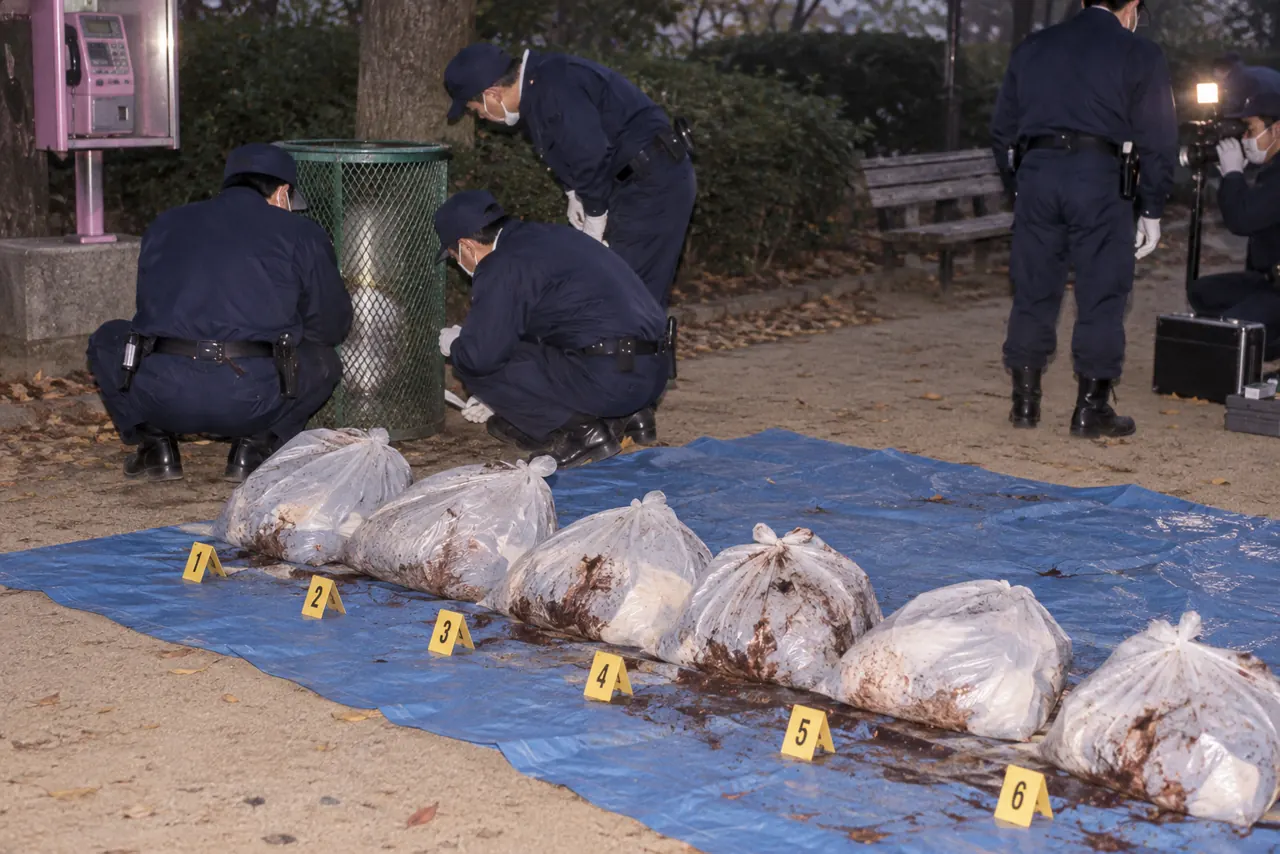
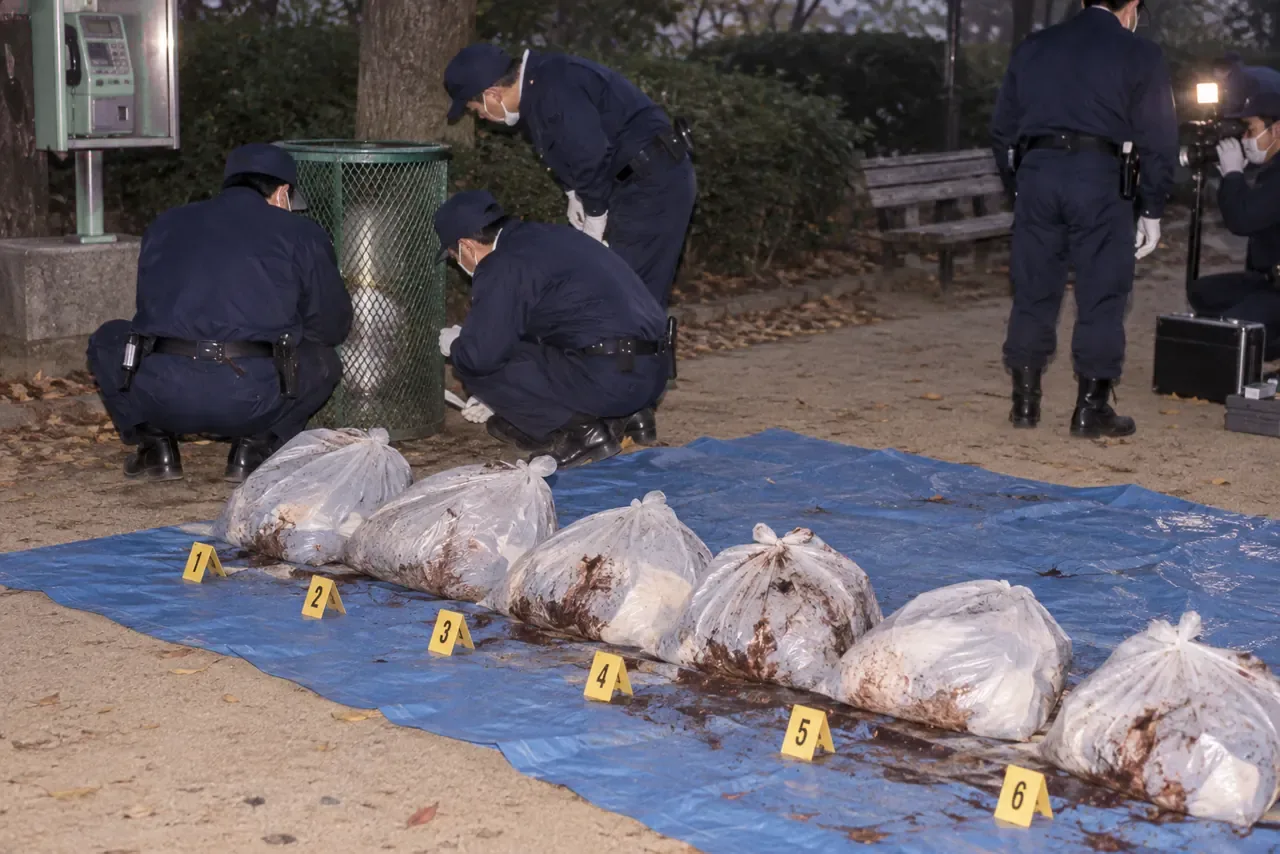
Three more photos that contradicted their records: - CASE 07: the streetlamp by the riverside shop is no longer lit; the records say the road has no streetlights and drivers see only headlights. - CASE 12: the payphone at the park dump site is green instead of pink, so it isn't confused with the pin

Changed region(s): [[0.0, 0.0, 0.125, 0.1827], [0.0625, 0.2436, 0.0938, 0.3044]]

diff --git a/i18n/ru/c12.js b/i18n/ru/c12.js
@@ -290,8 +290,8 @@ MG.I18N.put("ru", "c12", {
 "1yfhigs38mb": "06:02 уборщик районного [[парка Касивадай|k_park]] [[Такано Киёси|k_takano]] (64) обнаружил в урне № 1 у [[восточных ворот|k_eastgate]] [[полупрозрачный пакет|k_bags]] с чем-то похожим на человеческую руку; в 06:15 сообщил по телефону из конторы парка. 06:24 прибыл сотрудник полицейского поста, вход в парк перекрыт.",
 "393p2xbknp": "Показания обнаружившего, Такано (кратко): «Хотел опорожнить урну, поднял пакет — а он какой-то тяжёлый и холодный. Плёнка натянулась, и проступили суставы пальцев. Сперва подумал, кто-то резиновую перчатку выкинул». — По его словам, пока звонил из конторы парка, дважды уронил трубку.",
 "2gexjltksve": "Показания обнаружившего, Такано (кратко): «Хотел опорожнить урну, поднял пакет — а он какой-то тяжёлый и холодный. Только поднял — то, что внутри, грузно перевалилось на один бок, а вода на дне плеснула. Плёнка натянулась, и проступили суставы пальцев. Белые, сморщенные, будто размокли в воде. Сперва подумал, кто-то резиновую перчатку выкинул. Только как ногти увидел — понял». — По его словам, пока звонил из конторы парка, дважды уронил трубку. Когда в 06:24 прибыл сотрудник поста, в стоке перед конторой была рвота, а обнаруживший всё тёр руку в перчатке о брюки.",
-"1ocfj0uh1g5": "Около 07:00, у урны № 1 у восточных ворот. Эксперты вынимали пакеты по одному и раскладывали на брезенте.",
-"ffyydkjqgl": "Около 07:00, у урны № 1 у восточных ворот. Эксперты вынимали пакеты по одному и раскладывали на брезенте. На некоторых снаружи расплылись бурые пятна засохшей крови размером с ладонь, а сквозь плёнку просвечивает придавленная белёсая плоть. На брезенте тут и там остались бурые мазки с наружной стороны пакетов.",
+"llkma2n0uw": "Около 07:00, у урны № 1 у восточных ворот. Эксперты по очереди вынимают пакеты из урн № 1, 2 и 3 и раскладывают на брезенте.",
+"1s9110iwyda": "Около 07:00, у урны № 1 у восточных ворот. Эксперты по очереди вынимают пакеты из урн № 1, 2 и 3 и раскладывают на брезенте. На некоторых снаружи расплылись бурые пятна засохшей крови размером с ладонь, а сквозь плёнку просвечивает придавленная белёсая плоть. На брезенте тут и там остались бурые мазки с наружной стороны пакетов.",
 "t3hb1dkp5t": "№ 1, 2, 3",
 "20fna505l6a": "У восточных ворот, внутри",
 "nlv6oazvwq": "Пакетов: 8",

diff --git a/cases/c12-tokyo-1994.js b/cases/c12-tokyo-1994.js
@@ -286,7 +286,7 @@
         { stamp: '部外秘' },
         '06:02 구립 [[가시와다이 공원]] 청소 작업원 [[다카노 기요시]](64)가 [[동문]] 쪽 1번 쓰레기통에서 사람의 손으로 보이는 것이 든 [[반투명 봉투]]를 발견, 06:15 공원 관리 사무소 전화로 신고. 06:24 파출소원 도착, 공원 출입 통제.',
         { note: '발견자 다카노 진술 (요지): "통을 비우려고 봉투를 드는데 이상하게 무겁고 차가웠다. 비닐이 늘어나면서 손가락 마디가 비쳤다. 처음엔 누가 버린 고무장갑인 줄 알았다." — 관리 사무소 전화로 신고하는 동안 수화기를 두 번 떨어뜨렸다고 함.', gore: '발견자 다카노 진술 (요지): "통을 비우려고 봉투를 드는데 이상하게 무겁고 차가웠다. 들어 올리자 속에 든 것이 묵직하게 한쪽으로 기울고 바닥에 고인 물이 출렁했다. 비닐이 늘어나면서 손가락 마디가 비쳤다. 물에 불은 듯 허옇고 쭈글쭈글했다. 처음엔 누가 버린 고무장갑인 줄 알았다. 손톱이 보이고서야 알았다." — 관리 사무소 전화로 신고하는 동안 수화기를 두 번 떨어뜨렸다고 함. 06:24 파출소원 도착 때 사무소 앞 배수구에 토사물이 있었고, 발견자는 장갑 낀 손을 바지에 계속 문지르고 있었음.' },
-        { img: 'scene_bin', cap: '07:00 무렵의 동문 1번 통 둘레. 감식반이 봉투를 하나씩 꺼내 시트 위에 늘어놓았다.', gore: '07:00 무렵의 동문 1번 통 둘레. 감식반이 봉투를 하나씩 꺼내 시트 위에 늘어놓았다. 몇 장은 겉면에 손바닥만 한 마른 핏자국이 갈색으로 번졌고, 비닐 안쪽으로 허연 살덩이가 짓눌려 비친다. 시트에도 봉투 겉면의 갈색 얼룩이 군데군데 묻어났다.' },
+        { img: 'scene_bin', cap: '07:00 무렵의 동문 1번 통 둘레. 감식반이 1·2·3번 통의 봉투를 차례로 꺼내 시트 위에 늘어놓는 중이다.', gore: '07:00 무렵의 동문 1번 통 둘레. 감식반이 1·2·3번 통의 봉투를 차례로 꺼내 시트 위에 늘어놓는 중이다. 몇 장은 겉면에 손바닥만 한 마른 핏자국이 갈색으로 번졌고, 비닐 안쪽으로 허연 살덩이가 짓눌려 비친다. 시트에도 봉투 겉면의 갈색 얼룩이 군데군데 묻어났다.' },
         { rows: [['1·2·3번', '동문 안쪽', '봉투 8'], ['4번', '보트 선착장', '9월 말부터 수리로 철거'], ['5·6번', '연못가', '봉투 7'], ['7번', '공중화장실 앞', '화장실 공사로 투입구 봉함'], ['8·9번', '서문 안쪽', '봉투 6']], head: ['통', '위치', '상태'] },
         { p: '봉투는 모두 입구가 묶여 있었고, 겉면 몇 곳에 마른 핏자국이 번져 있었음. 통 바닥에 고인 것은 연갈색 물기뿐, 흘러내린 피는 거의 없음.', gore: '봉투는 모두 입구가 묶여 있었고, 겉면 몇 곳에 마른 핏자국이 번져 있었음. 비닐 안쪽 면에는 붉은 기 도는 물방울이 맺혔고, 토막마다 절단면이 비닐에 짓눌려 희뿌연 근육 단면이 그대로 비침. 통 바닥에 고인 것은 연갈색 물기뿐, 흘러내린 피는 거의 없음. 봉투를 열지 않았는데도 통 둘레에 비릿한 물 냄새가 배어 있음.' },
         '공원 동문 밖은 [[2초메 상점가]], 서문 건너편은 가시와다이역 앞 광장과 [[선라이즈 편의점]]. 밤에도 문을 닫지 않음. 가로등 12기.',

diff --git a/i18n/ja/c12.js b/i18n/ja/c12.js
@@ -290,8 +290,8 @@ MG.I18N.put("ja", "c12", {
 "1yfhigs38mb": "06:02 区立[[柏台公園|k_park]]清掃作業員[[高野清|k_takano]]（64）が、[[東門|k_eastgate]]側の1番ごみ箱で、人の手とみられるものが入った[[半透明の袋|k_bags]]を発見、06:15 公園管理事務所の電話で通報。06:24 交番員到着、公園の立ち入りを規制。",
 "393p2xbknp": "発見者・高野の供述（要旨）：「ごみ箱を空けようと袋を持ち上げたら、妙に重くて冷たかった。ビニールが伸びて、指の関節が透けて見えた。最初は誰かが捨てたゴム手袋かと思った」— 管理事務所の電話で通報する間、受話器を二度落としたという。",
 "2gexjltksve": "発見者・高野の供述（要旨）：「ごみ箱を空けようと袋を持ち上げたら、妙に重くて冷たかった。持ち上げると中のものがずしりと片側に傾いて、底にたまった水がちゃぷんと揺れた。ビニールが伸びて、指の関節が透けて見えた。水でふやけたみたいに白くて、しわしわだった。最初は誰かが捨てたゴム手袋かと思った。爪が見えて、やっと分かった」— 管理事務所の電話で通報する間、受話器を二度落としたという。06:24 交番員到着時、事務所前の排水溝に吐瀉物があり、発見者は手袋をはめた手をズボンにこすりつけ続けていた。",
-"1ocfj0uh1g5": "07:00ごろの東門1番ごみ箱の周り。鑑識班が袋を一つずつ取り出し、シートの上に並べた。",
-"ffyydkjqgl": "07:00ごろの東門1番ごみ箱の周り。鑑識班が袋を一つずつ取り出し、シートの上に並べた。何枚かは表面に手のひら大の乾いた血痕が茶色くにじみ、ビニールの内側に白っぽい肉の塊が押しつぶされて透けている。シートにも、袋の表面の茶色い染みがところどころ付いた。",
+"llkma2n0uw": "07:00ごろの東門1番ごみ箱の周り。鑑識班が1・2・3番ごみ箱の袋を順に取り出し、シートの上に並べているところ。",
+"1s9110iwyda": "07:00ごろの東門1番ごみ箱の周り。鑑識班が1・2・3番ごみ箱の袋を順に取り出し、シートの上に並べているところ。何枚かは表面に手のひら大の乾いた血痕が茶色くにじみ、ビニールの内側に白っぽい肉の塊が押しつぶされて透けている。シートにも、袋の表面の茶色い染みがところどころ付いた。",
 "t3hb1dkp5t": "1・2・3番",
 "20fna505l6a": "東門の内側",
 "nlv6oazvwq": "袋8",

diff --git a/i18n/de/c12.js b/i18n/de/c12.js
@@ -290,8 +290,8 @@ MG.I18N.put("de", "c12", {
 "1yfhigs38mb": "06:02 Parkreiniger [[Takano Kiyoshi|k_takano]] (64) des bezirkseigenen [[Kashiwadai-Parks|k_park]] findet in Abfallkorb 1 am [[Osttor|k_eastgate]] einen [[halbtransparenten Müllbeutel|k_bags]] mit etwas, das wie eine menschliche Hand aussieht; 06:15 Meldung über das Telefon der Parkverwaltung. 06:24 Beamter der Polizeibox vor Ort, Park abgesperrt.",
 "393p2xbknp": "Aussage des Finders Takano (Kern): „Ich wollte den Korb leeren und hob den Beutel an, der war merkwürdig schwer und kalt. Die Folie dehnte sich, und Fingerglieder schienen durch. Zuerst dachte ich, jemand hätte Gummihandschuhe weggeworfen.“ — Beim Anruf über das Telefon der Parkverwaltung soll ihm zweimal der Hörer heruntergefallen sein.",
 "2gexjltksve": "Aussage des Finders Takano (Kern): „Ich wollte den Korb leeren und hob den Beutel an, der war merkwürdig schwer und kalt. Als ich ihn hochhob, rutschte der Inhalt schwer zur Seite, und unten schwappte Wasser. Die Folie dehnte sich, und Fingerglieder schienen durch. Weißlich und schrumpelig, wie vom Wasser aufgequollen. Zuerst dachte ich, jemand hätte Gummihandschuhe weggeworfen. Erst als ich die Fingernägel sah, begriff ich es.“ — Beim Anruf über das Telefon der Parkverwaltung soll ihm zweimal der Hörer heruntergefallen sein. Als der Beamte um 06:24 eintraf, lag Erbrochenes im Gully vor dem Büro, und der Finder rieb seine behandschuhten Hände immer wieder an der Hose ab.",
-"1ocfj0uh1g5": "Rund um Korb 1 am Osttor gegen 07:00. Die Spurensicherung nimmt die Beutel einzeln heraus und legt sie auf der Plane aus.",
-"ffyydkjqgl": "Rund um Korb 1 am Osttor gegen 07:00. Die Spurensicherung nimmt die Beutel einzeln heraus und legt sie auf der Plane aus. Auf einigen hat sich außen handtellergroß getrocknetes Blut braun ausgebreitet, durch die Folie schimmert weißliches Fleisch, das dagegen gepresst ist. Auch auf der Plane haben die braunen Flecken der Beutel hier und da abgefärbt.",
+"llkma2n0uw": "Rund um Korb 1 am Osttor gegen 07:00. Die Spurensicherung holt die Beutel aus den Körben 1, 2 und 3 nacheinander heraus und legt sie auf der Plane aus.",
+"1s9110iwyda": "Rund um Korb 1 am Osttor gegen 07:00. Die Spurensicherung holt die Beutel aus den Körben 1, 2 und 3 nacheinander heraus und legt sie auf der Plane aus. Auf einigen hat sich außen handtellergroß getrocknetes Blut braun ausgebreitet, durch die Folie schimmert weißliches Fleisch, das dagegen gepresst ist. Auch auf der Plane haben die braunen Flecken der Beutel hier und da abgefärbt.",
 "t3hb1dkp5t": "Nr. 1·2·3",
 "20fna505l6a": "Innenseite Osttor",
 "nlv6oazvwq": "8 Beutel",

diff --git a/i18n/en/c12.js b/i18n/en/c12.js
@@ -290,8 +290,8 @@ MG.I18N.put("en", "c12", {
 "1yfhigs38mb": "06:02 [[Takano Kiyoshi|k_takano]] (64), park cleaner at the ward-run [[Kashiwadai Park|k_park]], found a [[translucent bag|k_bags]] containing what appeared to be a human hand in trash bin No. 1 by the [[east gate|k_eastgate]]; reported by the park office telephone at 06:15. 06:24 Officer from the local police box arrived; park closed off.",
 "393p2xbknp": "Statement of the discoverer, Takano (summary): “I went to lift the bag to empty the bin, and it was strangely heavy and cold. As the plastic stretched, I could see finger joints through it. At first I thought someone had thrown away a rubber glove.” — Reportedly dropped the receiver twice while reporting it on the park office telephone.",
 "2gexjltksve": "Statement of the discoverer, Takano (summary): “I went to lift the bag to empty the bin, and it was strangely heavy and cold. When I lifted it, what was inside slumped heavily to one side and the water pooled at the bottom sloshed. As the plastic stretched, I could see finger joints through it. White and wrinkled, like they'd been soaking in water. At first I thought someone had thrown away a rubber glove. I only knew when I saw the nails.” — Reportedly dropped the receiver twice while reporting it on the park office telephone. When the officer from the police box arrived at 06:24, there was vomit in the drain outside the office, and the discoverer kept wiping his gloved hands on his pants.",
-"1ocfj0uh1g5": "Around east gate Bin 1 at about 07:00. The forensics team took the bags out one by one and laid them out on a tarp.",
-"ffyydkjqgl": "Around east gate Bin 1 at about 07:00. The forensics team took the bags out one by one and laid them out on a tarp. On several, dried bloodstains the size of a palm have spread brown across the outside, and through the plastic, whitish flesh shows pressed flat. Brown stains from the outsides of the bags have come off on the tarp here and there too.",
+"llkma2n0uw": "Around east gate Bin 1 at about 07:00. The forensics team is taking the bags from Bins 1, 2 and 3 out one at a time and laying them on a tarp.",
+"1s9110iwyda": "Around east gate Bin 1 at about 07:00. The forensics team is taking the bags from Bins 1, 2 and 3 out one at a time and laying them on a tarp. On several, dried bloodstains the size of a palm have spread brown across the outside, and through the plastic, whitish flesh shows pressed flat. Brown stains from the outsides of the bags have come off on the tarp here and there too.",
 "t3hb1dkp5t": "1, 2, 3",
 "20fna505l6a": "Inside the east gate",
 "nlv6oazvwq": "8 bags",

diff --git a/i18n/zh/c12.js b/i18n/zh/c12.js
@@ -290,8 +290,8 @@ MG.I18N.put("zh", "c12", {
 "1yfhigs38mb": "06:02 区立[[柏台公园|k_park]]清扫工[[高野清|k_takano]]（64岁）在[[东门|k_eastgate]]一侧的1号垃圾桶里发现装有疑似人手之物的[[半透明垃圾袋|k_bags]]，06:15用公园管理处的电话报警。06:24派出所警员到场，封锁公园出入口。",
 "393p2xbknp": "发现者高野陈述（要点）：“想清空垃圾桶，拎起袋子，觉得怪沉、怪凉的。塑料膜一撑开，透出了手指的关节。一开始还以为是谁扔的橡胶手套。”——据称在管理处打电话报警时，两次把听筒掉在了地上。",
 "2gexjltksve": "发现者高野陈述（要点）：“想清空垃圾桶，拎起袋子，觉得怪沉、怪凉的。一提起来，里面的东西沉甸甸地往一边歪，底下的积水晃荡了一下。塑料膜一撑开，透出了手指的关节。像被水泡过似的，又白又皱。一开始还以为是谁扔的橡胶手套。看到指甲才明白过来。”——据称在管理处打电话报警时，两次把听筒掉在了地上。06:24派出所警员到场时，管理处门前的排水沟里有呕吐物，发现者一直把戴着手套的手往裤子上蹭。",
-"1ocfj0uh1g5": "07:00前后的东门1号桶周围。鉴识组把袋子一个个取出来，排在塑料布上。",
-"ffyydkjqgl": "07:00前后的东门1号桶周围。鉴识组把袋子一个个取出来，排在塑料布上。有几只袋子表面洇开了巴掌大的干血迹，呈褐色，塑料膜内侧透出被压扁的惨白肉块。塑料布上也处处沾上了袋子表面的褐色污渍。",
+"llkma2n0uw": "07:00前后的东门1号桶周围。鉴识组正把1、2、3号桶里的袋子依次取出来，排在塑料布上。",
+"1s9110iwyda": "07:00前后的东门1号桶周围。鉴识组正把1、2、3号桶里的袋子依次取出来，排在塑料布上。有几只袋子表面洇开了巴掌大的干血迹，呈褐色，塑料膜内侧透出被压扁的惨白肉块。塑料布上也处处沾上了袋子表面的褐色污渍。",
 "t3hb1dkp5t": "1·2·3号",
 "20fna505l6a": "东门内侧",
 "nlv6oazvwq": "袋子8个",

diff --git a/i18n/ru/c05.js b/i18n/ru/c05.js
@@ -242,7 +242,7 @@ MG.I18N.put("ru", "c05", {
 "1ouexmgmome": "«„Курьер“ — к каждому воскресному завтраку», — говорит начальник отдела доставки [[Вернон Осгуд|k_osgood]].",
 "1lqhnxsvlpq": "Засада у маяка ничего не дала — «Песочные часы» не появились",
 "1o13widbgim": "18 августа 1969 г. (пн) · третья полоса",
-"kqdq47f9tv": "Дорога к маяку Грейлок. Утро после засады.",
+"1piz3iq7ehm": "Дорога к маяку Грейлок. Ночь засады.",
 "1ohcxz1e40x": "С ночи 16-го до утра 17-го полиция сидела в засаде у [[маяка Грейлок|k_graylock]], но никого подозрительного не обнаружила. Засаду устроили потому, что у маяка часто останавливаются машины влюблённых пар.",
 "19eftb4prmq": "«За всю ночь проехало всего несколько машин», — сказал представитель полиции.",
 "ckhz6ottbp": "Журнал радиосвязи — 15 декабря, до рассвета",

diff --git a/img/manifest.js b/img/manifest.js
@@ -132,7 +132,7 @@ window.MG.images = {
   "c07/photo_seat": "img/c07/photo_seat.webp?v=7c0efa95",
   "c07/scene_map": "img/c07/scene_map.webp?v=ae8370e9",
   "c07/seokcar": "img/c07/seokcar.webp?v=3946e54c",
-  "c07/shop": "img/c07/shop.webp?v=4a9eb5d0",
+  "c07/shop": "img/c07/shop.webp?v=ce3ae570",
   "c07/songwol_gate": "img/c07/songwol_gate.webp?v=ef7a8716",
   "c07/switchboard": "img/c07/switchboard.webp?v=63a2e311",
   "c07/tv": "img/c07/tv.webp?v=029d4a60",
@@ -234,7 +234,7 @@ window.MG.images = {
   "c12/pinkphone": "img/c12/pinkphone.webp?v=e30555b8",
   "c12/room": "img/c12/room.webp?v=d9c285e8",
   "c12/saw_cast": "img/c12/saw_cast.webp?v=f5e3e103",
-  "c12/scene_bin": "img/c12/scene_bin.webp?v=afd1ae43",
+  "c12/scene_bin": "img/c12/scene_bin.webp?v=deb79958",
   "c12/sento": "img/c12/sento.webp?v=d8d78663",
   "c12/sk_east": "img/c12/sk_east.webp?v=e56bd36c",
   "c12/sk_lum": "img/c12/sk_lum.webp?v=680cc029",

diff --git a/i18n/de/c05.js b/i18n/de/c05.js
@@ -242,7 +242,7 @@ MG.I18N.put("de", "c05", {
 "1ouexmgmome": "Vertriebsleiter [[Vernon Osgood|k_osgood]]: „Auf jeden Frühstückstisch am Sonntag einen Courier.“",
 "1lqhnxsvlpq": "Observation am Leuchtturm ergebnislos — Sanduhr zeigt sich nicht",
 "1o13widbgim": "Montag, 18. August 1969 · Seite 3",
-"kqdq47f9tv": "Die Straße zum Leuchtturm Graylock am Morgen nach der Observation.",
+"1piz3iq7ehm": "Die Straße zum Leuchtturm Graylock in der Nacht der Observation.",
 "1ohcxz1e40x": "Die Polizei hat vom Abend des 16. bis zum Morgen des 17. die Gegend rund um den [[Leuchtturm Graylock|k_graylock]] observiert, aber keine verdächtige Person entdeckt. Anlass war, dass in der Nähe des Leuchtturms häufig Liebespaare mit dem Auto halten.",
 "19eftb4prmq": "Ein Polizeisprecher sagte: „Die ganze Nacht über sind nur wenige Autos vorbeigekommen.“",
 "ckhz6ottbp": "Funkprotokoll — früher Morgen des 15. Dezember",

diff --git a/i18n/ja/c05.js b/i18n/ja/c05.js
@@ -242,7 +242,7 @@ MG.I18N.put("ja", "c05", {
 "1ouexmgmome": "配送部長の[[ヴァーノン・オズグッド|k_osgood]]は「日曜の朝、すべての食卓にクーリエを」と話した。",
 "1lqhnxsvlpq": "灯台の張り込み空振り — 砂時計現れず",
 "1o13widbgim": "1969年8月18日（月） · 3面",
-"kqdq47f9tv": "グレイロック灯台道。張り込みの翌朝。",
+"1piz3iq7ehm": "グレイロック灯台道。張り込みの夜。",
 "1ohcxz1e40x": "警察は16日夜から17日朝にかけて[[グレイロック灯台|k_graylock]]一帯で張り込みを行ったが、不審な人物は見つからなかった。灯台の近くにカップルの車がよく停まることを受けた措置だった。",
 "19eftb4prmq": "警察関係者は「一晩中、通った車は数台しかなかった」と話した。",
 "ckhz6ottbp": "無線記録 — 12月15日未明",

diff --git a/cases/c05-westcoast-1969.js b/cases/c05-westcoast-1969.js
@@ -247,7 +247,7 @@
         '배송부장 [[버넌 오스굿]]은 "일요일 아침 식탁마다 쿠리어를"이라고 말했다.',
       ] },
       n_0818: { src: 'morgue', find: ['k_graylock'], blood: false, title: '등대 잠복 허탕 — 모래시계 나타나지 않아', kicker: 'MONDAY', meta: '1969년 8월 18일 (월) · 3면', body: [
-        { img: 'lighthouse', cap: '그레이록 등대길. 잠복 이튿날 아침.' },
+        { img: 'lighthouse', cap: '그레이록 등대길. 잠복하던 밤.' },
         '경찰은 16일 밤부터 17일 아침까지 [[그레이록 등대]] 일대에 잠복했으나 수상한 사람을 찾지 못했다. 등대 근처에서 연인들의 차가 자주 서는 데 따른 조치였다.',
         '경찰 관계자는 "밤새 지나간 차는 몇 대 되지 않았다"고 말했다.',
         { note: 'The Knowlton Courier · 한국어 번역' },

diff --git a/i18n/en/c05.js b/i18n/en/c05.js
@@ -242,7 +242,7 @@ MG.I18N.put("en", "c05", {
 "1ouexmgmome": "Circulation manager [[Vernon Osgood|k_osgood]] said, “A Courier on every Sunday breakfast table.”",
 "1lqhnxsvlpq": "Lighthouse Stakeout Comes Up Empty — No Sign of Hourglass",
 "1o13widbgim": "Monday, August 18, 1969 · Page 3",
-"kqdq47f9tv": "Graylock Lighthouse road, the morning after the stakeout.",
+"1piz3iq7ehm": "Graylock Lighthouse road, the night of the stakeout.",
 "1ohcxz1e40x": "Police staked out the area around [[Graylock Lighthouse|k_graylock]] from the night of the 16th until the morning of the 17th but found no one suspicious. The move followed reports that couples often park near the lighthouse.",
 "19eftb4prmq": "“Only a handful of cars went by all night,” a police source said.",
 "ckhz6ottbp": "Radio Log — Early Hours of December 15",
